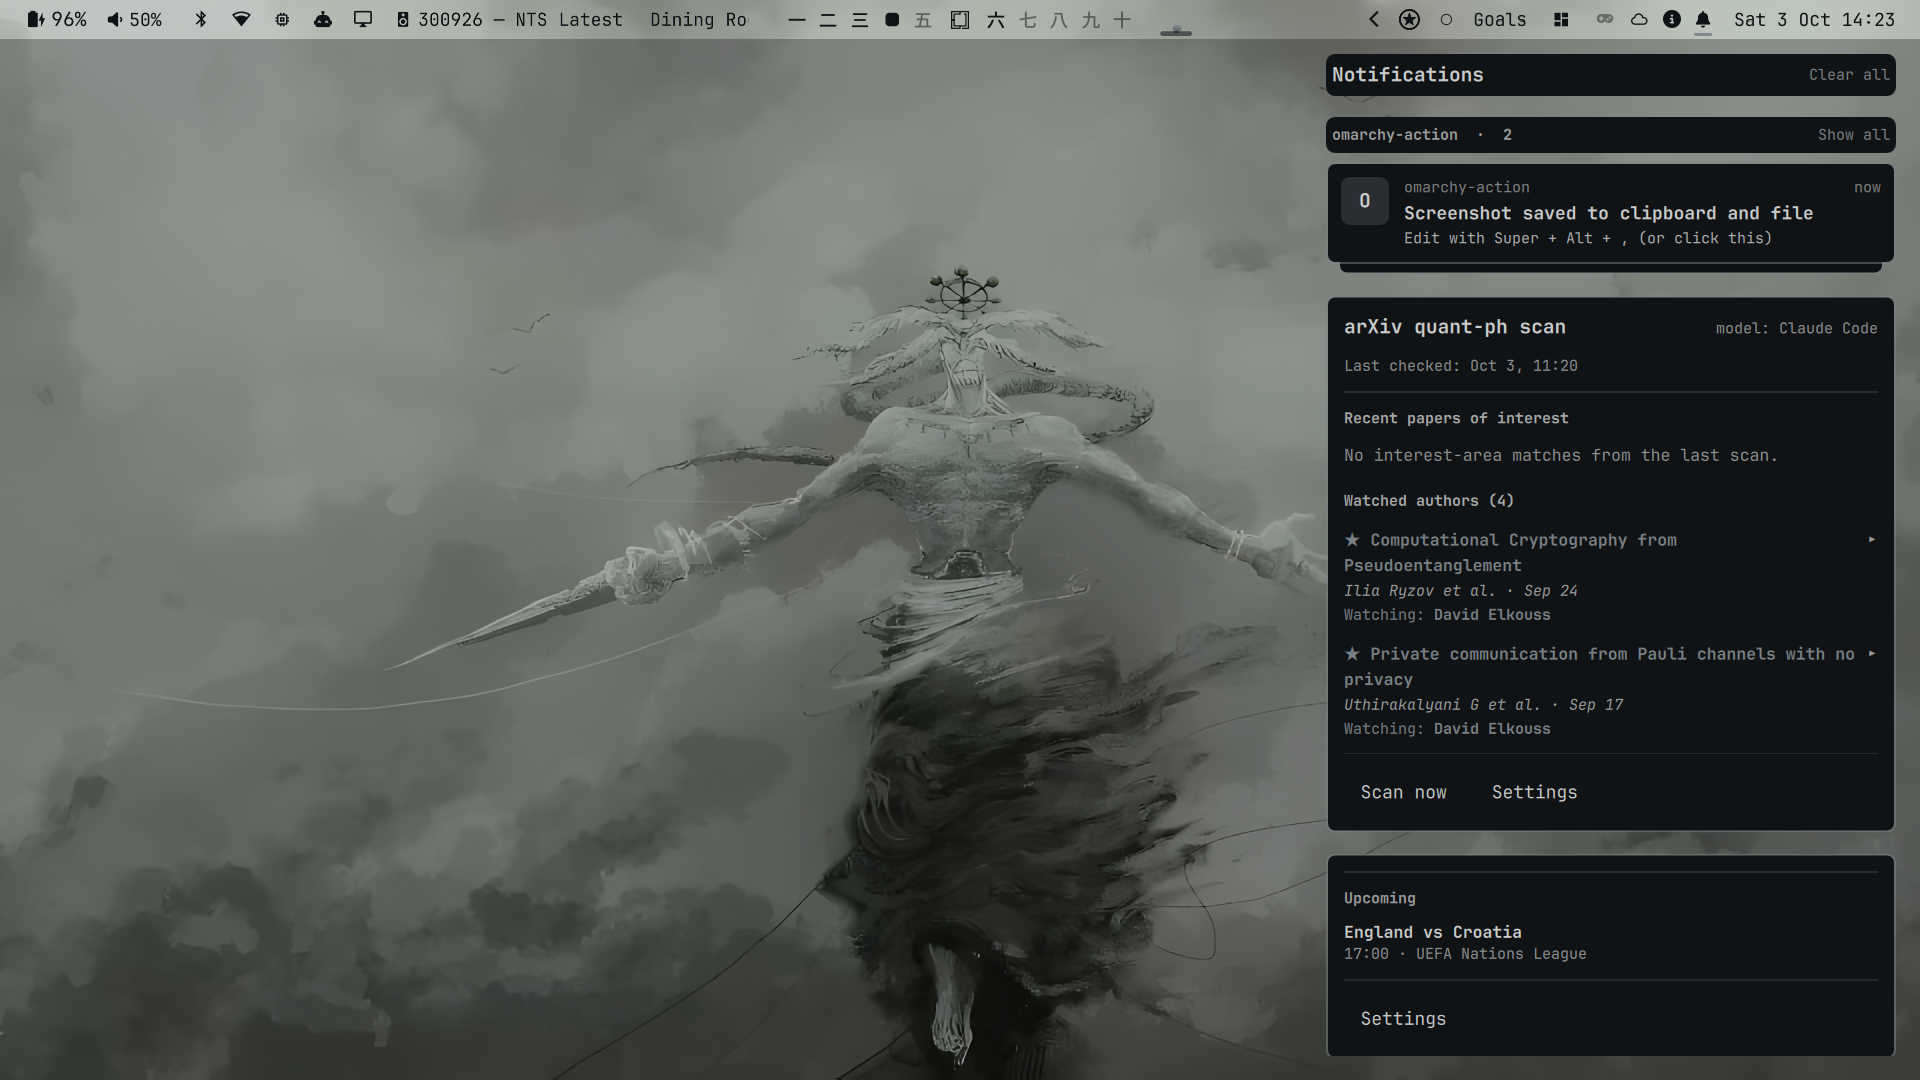
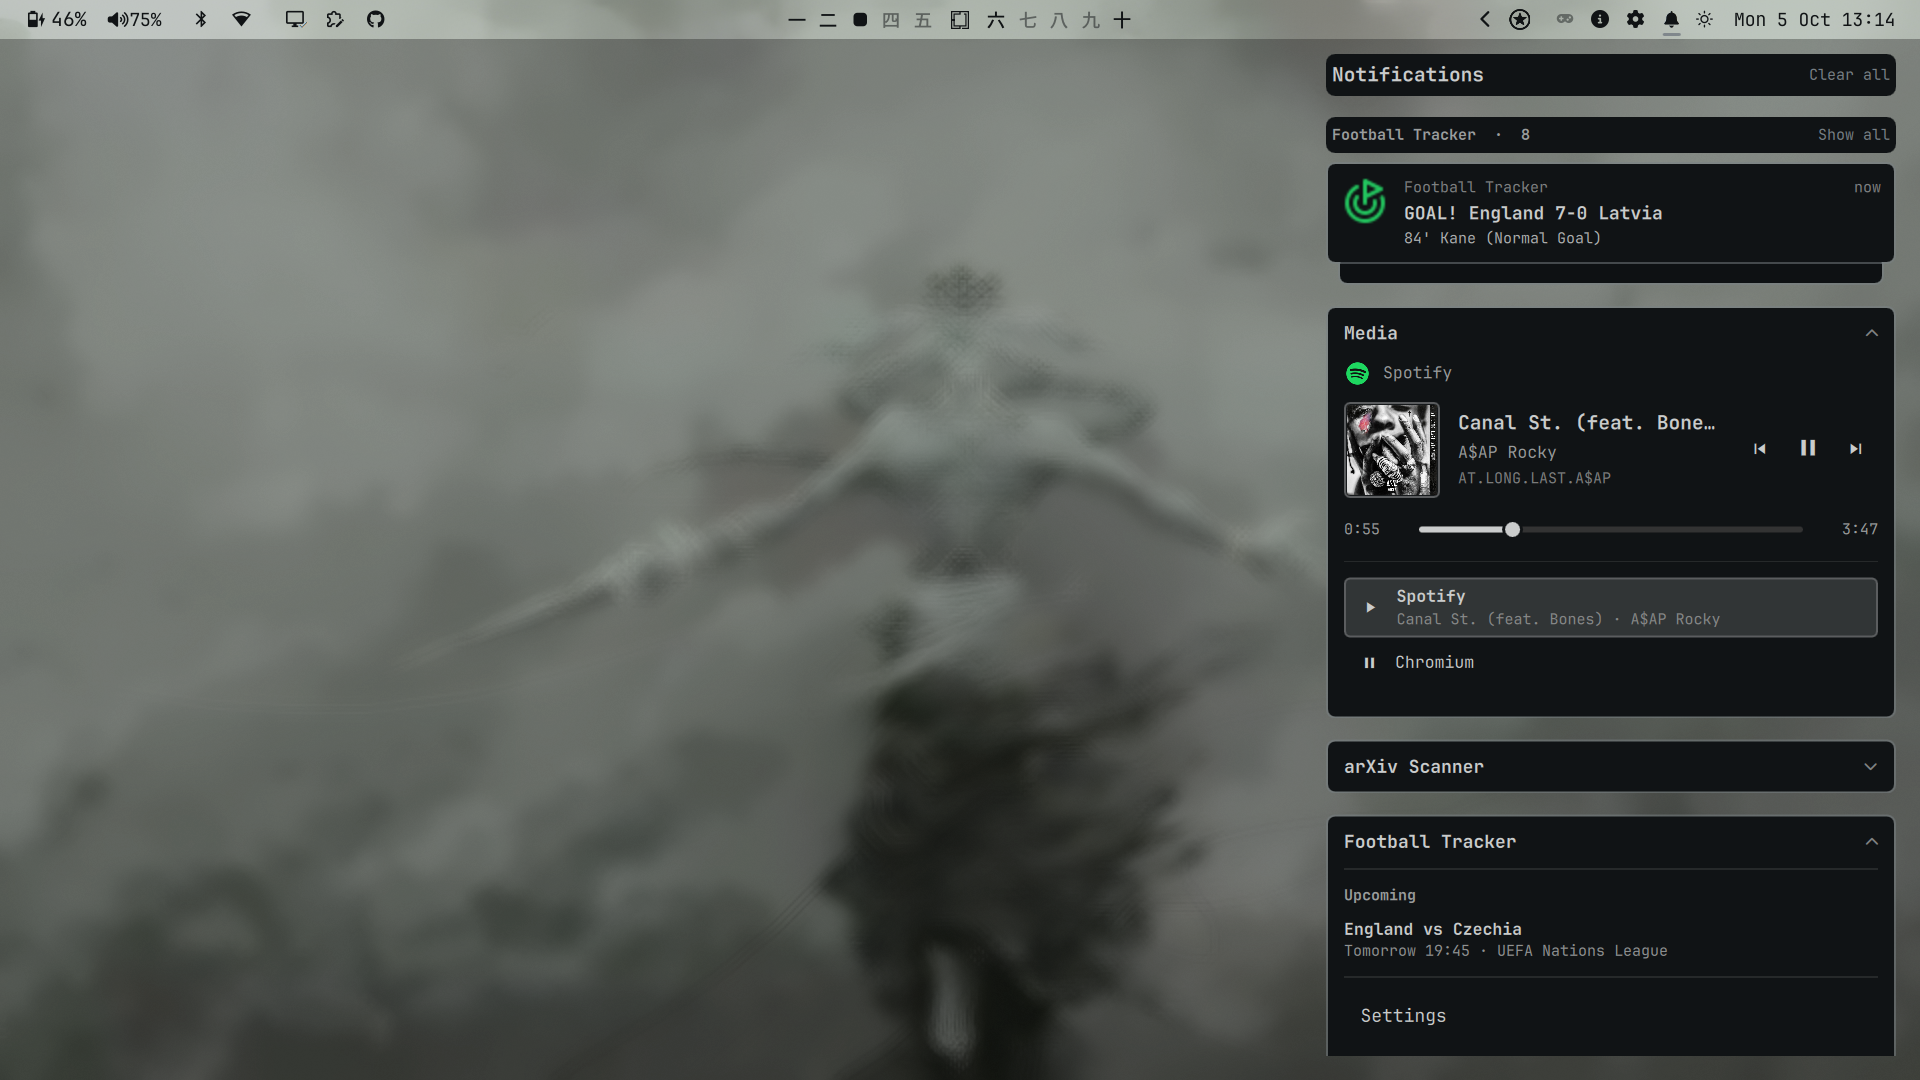
Docs: new preview screenshot showing collapsible cards

diff --git a/README.md b/README.md
@@ -1,6 +1,6 @@
 # Omahub
 
-![The Omahub open over an empty desktop: stacked notifications above an arXiv card and a football card](preview.png)
+![The Omahub open on the desktop: a stacked notification group above collapsible Media, arXiv Scanner and Football Tracker cards](preview.png)
 
 A slide-out hub for your Omarchy bar. One bell in the bar opens a right-hand panel with a longer, stacked history of your OS notifications and, beneath them, floating cards that other plugins contribute from their own popups. It is built for notifications today and for any plugin popup you want to keep one click away.
 
